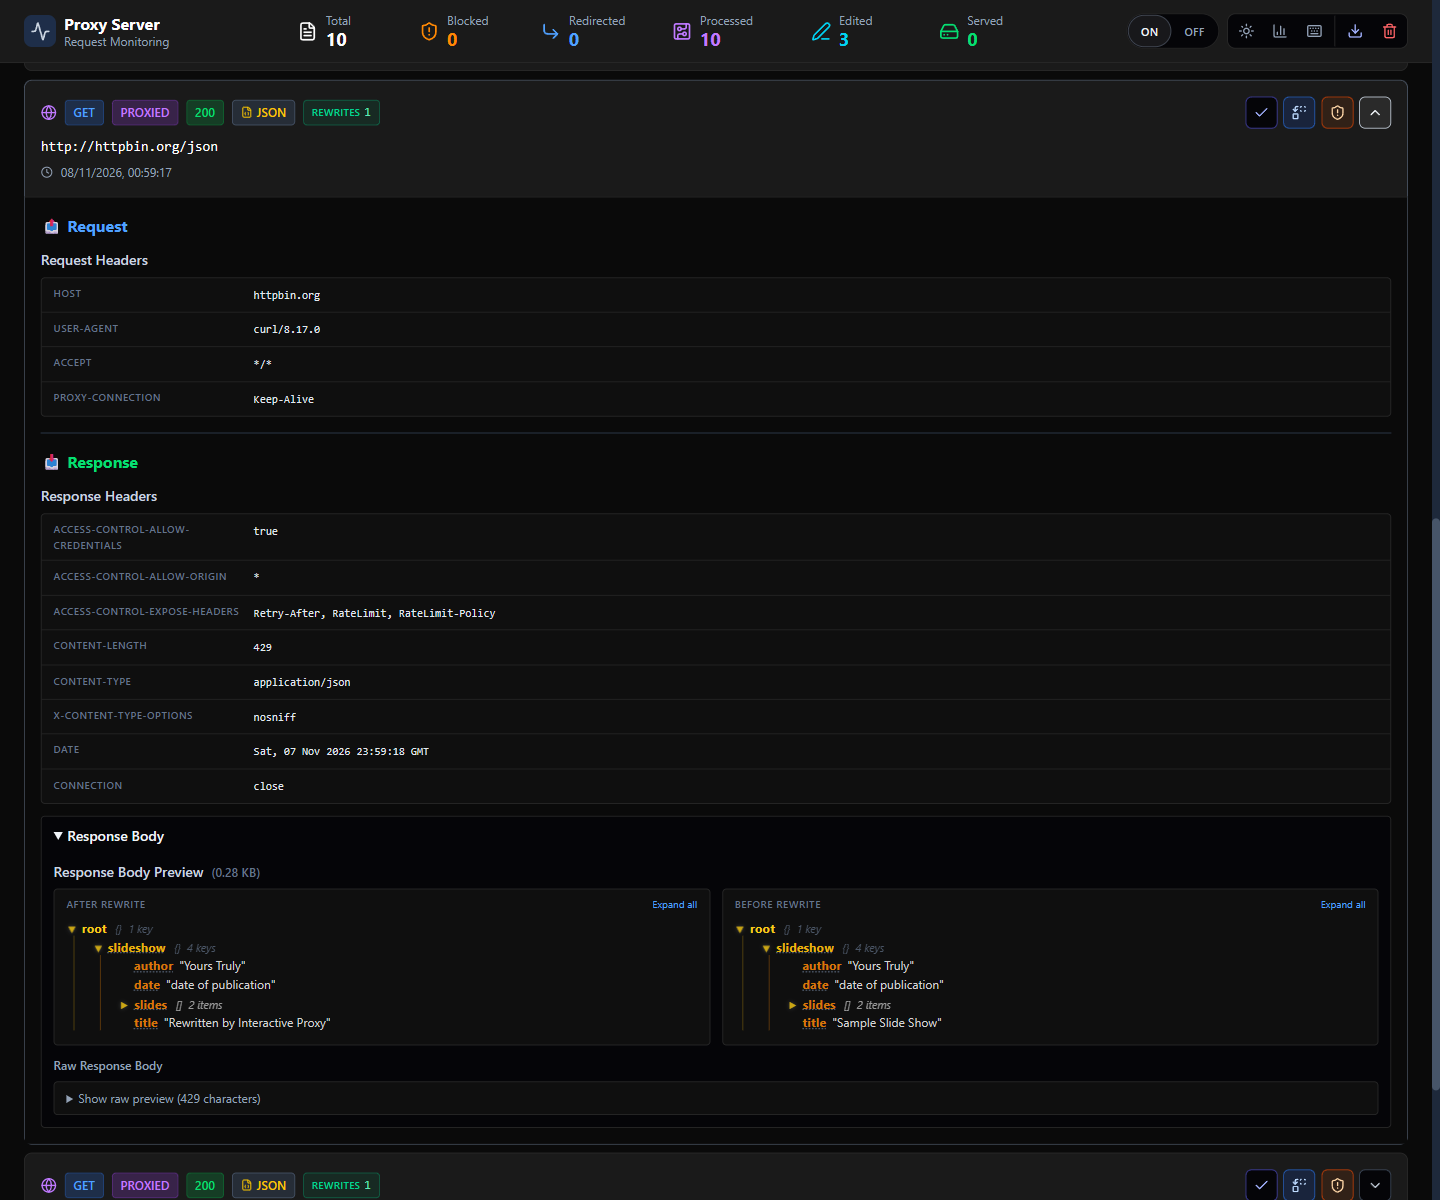
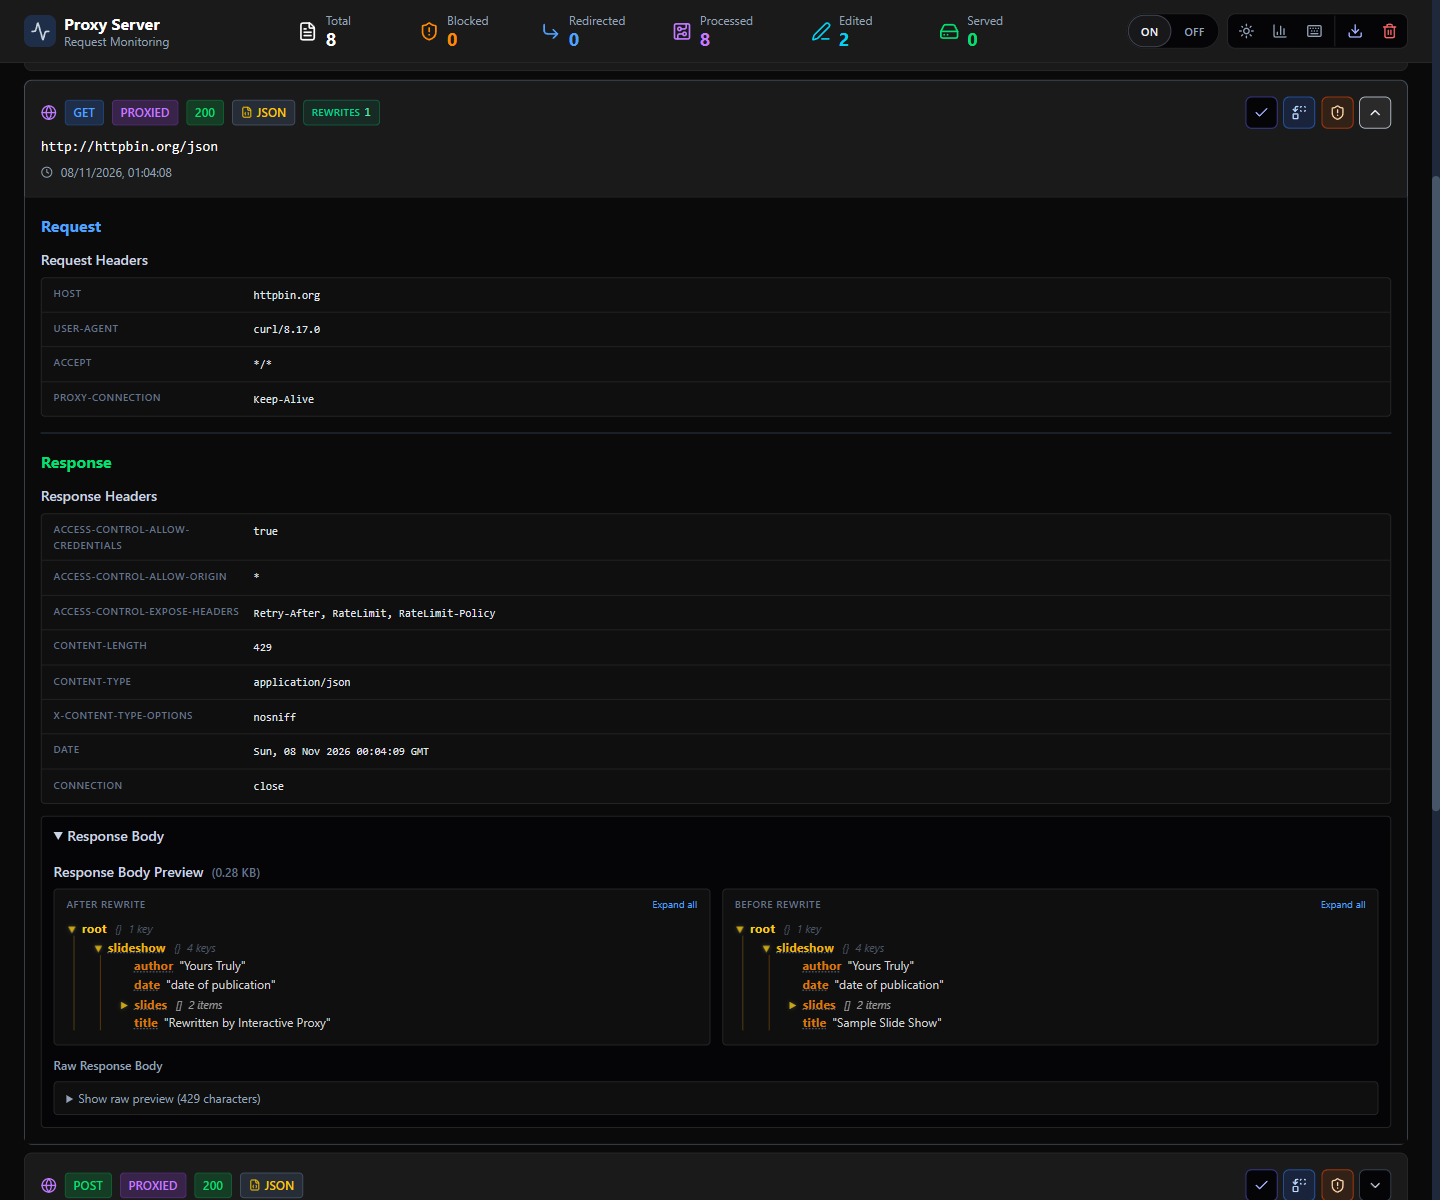
Request detail: plain Request, Response, Message and Error headings; detail screenshot retaken

diff --git a/client/src/features/logs/LogDetail.jsx b/client/src/features/logs/LogDetail.jsx
@@ -25,7 +25,7 @@ export default function LogDetail({ log, onCreateJsonPathRule }) {
     <div className="border-t border-edge p-4 bg-surface">
       <div className="space-y-4">
         <div className="border-b border-edge-strong pb-4">
-          <h3 className="text-base font-bold text-blue-400 mb-3">📤 Request</h3>
+          <h3 className="text-base font-bold text-blue-400 mb-3">Request</h3>
 
           <div className="space-y-3">
             <div>
@@ -40,7 +40,7 @@ export default function LogDetail({ log, onCreateJsonPathRule }) {
         {hasResponseSection && (
           <div>
             <h3 className="text-base font-bold text-green-400 mb-3">
-              {log.source === 'websocket' ? '💬 Message' : '📥 Response'}
+              {log.source === 'websocket' ? 'Message' : 'Response'}
             </h3>
 
             <div className="space-y-3">
@@ -58,7 +58,7 @@ export default function LogDetail({ log, onCreateJsonPathRule }) {
 
         {log.error && (
           <div>
-            <h3 className="text-base font-bold text-red-400 mb-3">❌ Error</h3>
+            <h3 className="text-base font-bold text-red-400 mb-3">Error</h3>
             <pre className="bg-red-950/30 p-3 rounded text-xs text-red-300 overflow-x-auto">
               {log.error}
             </pre>
